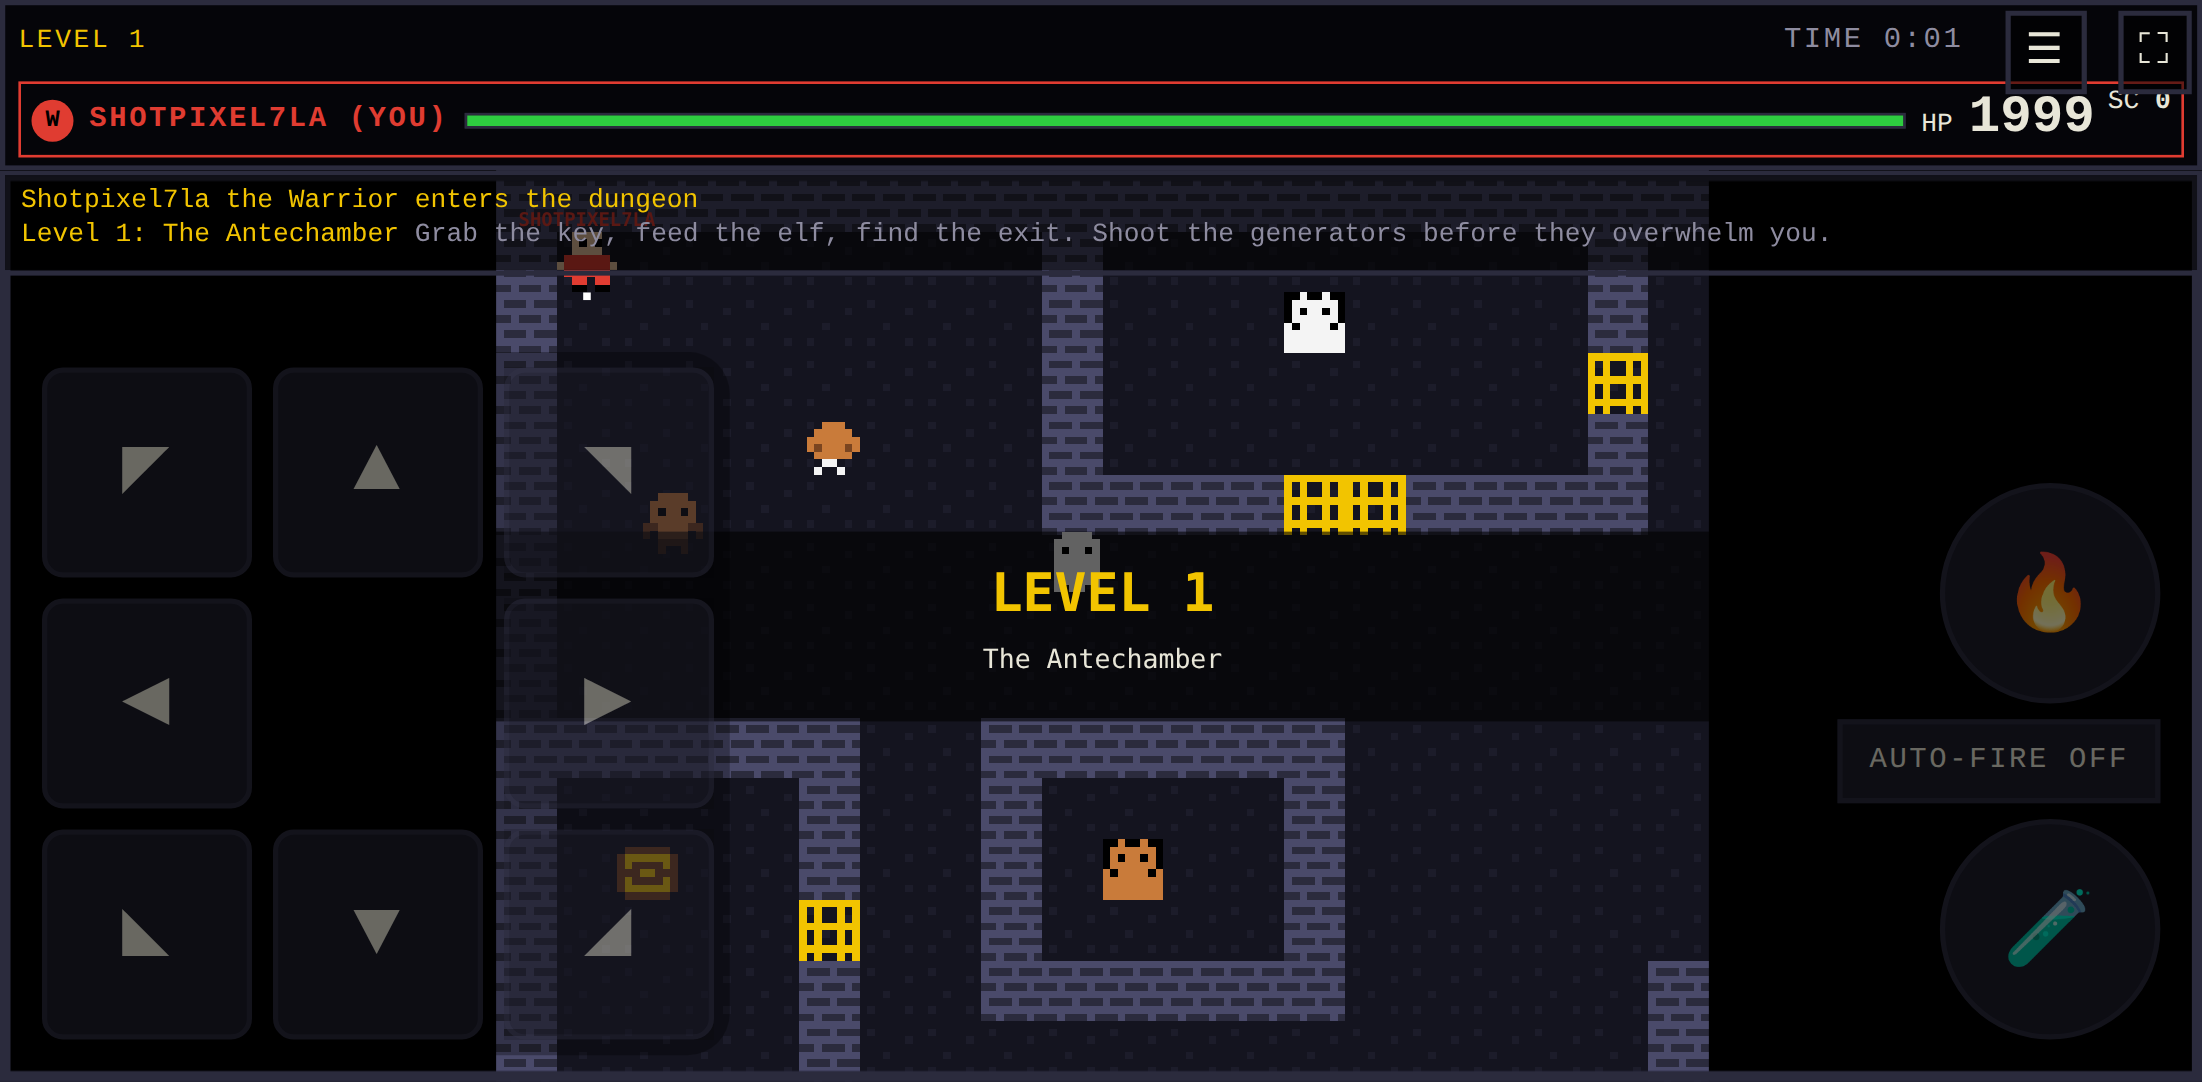
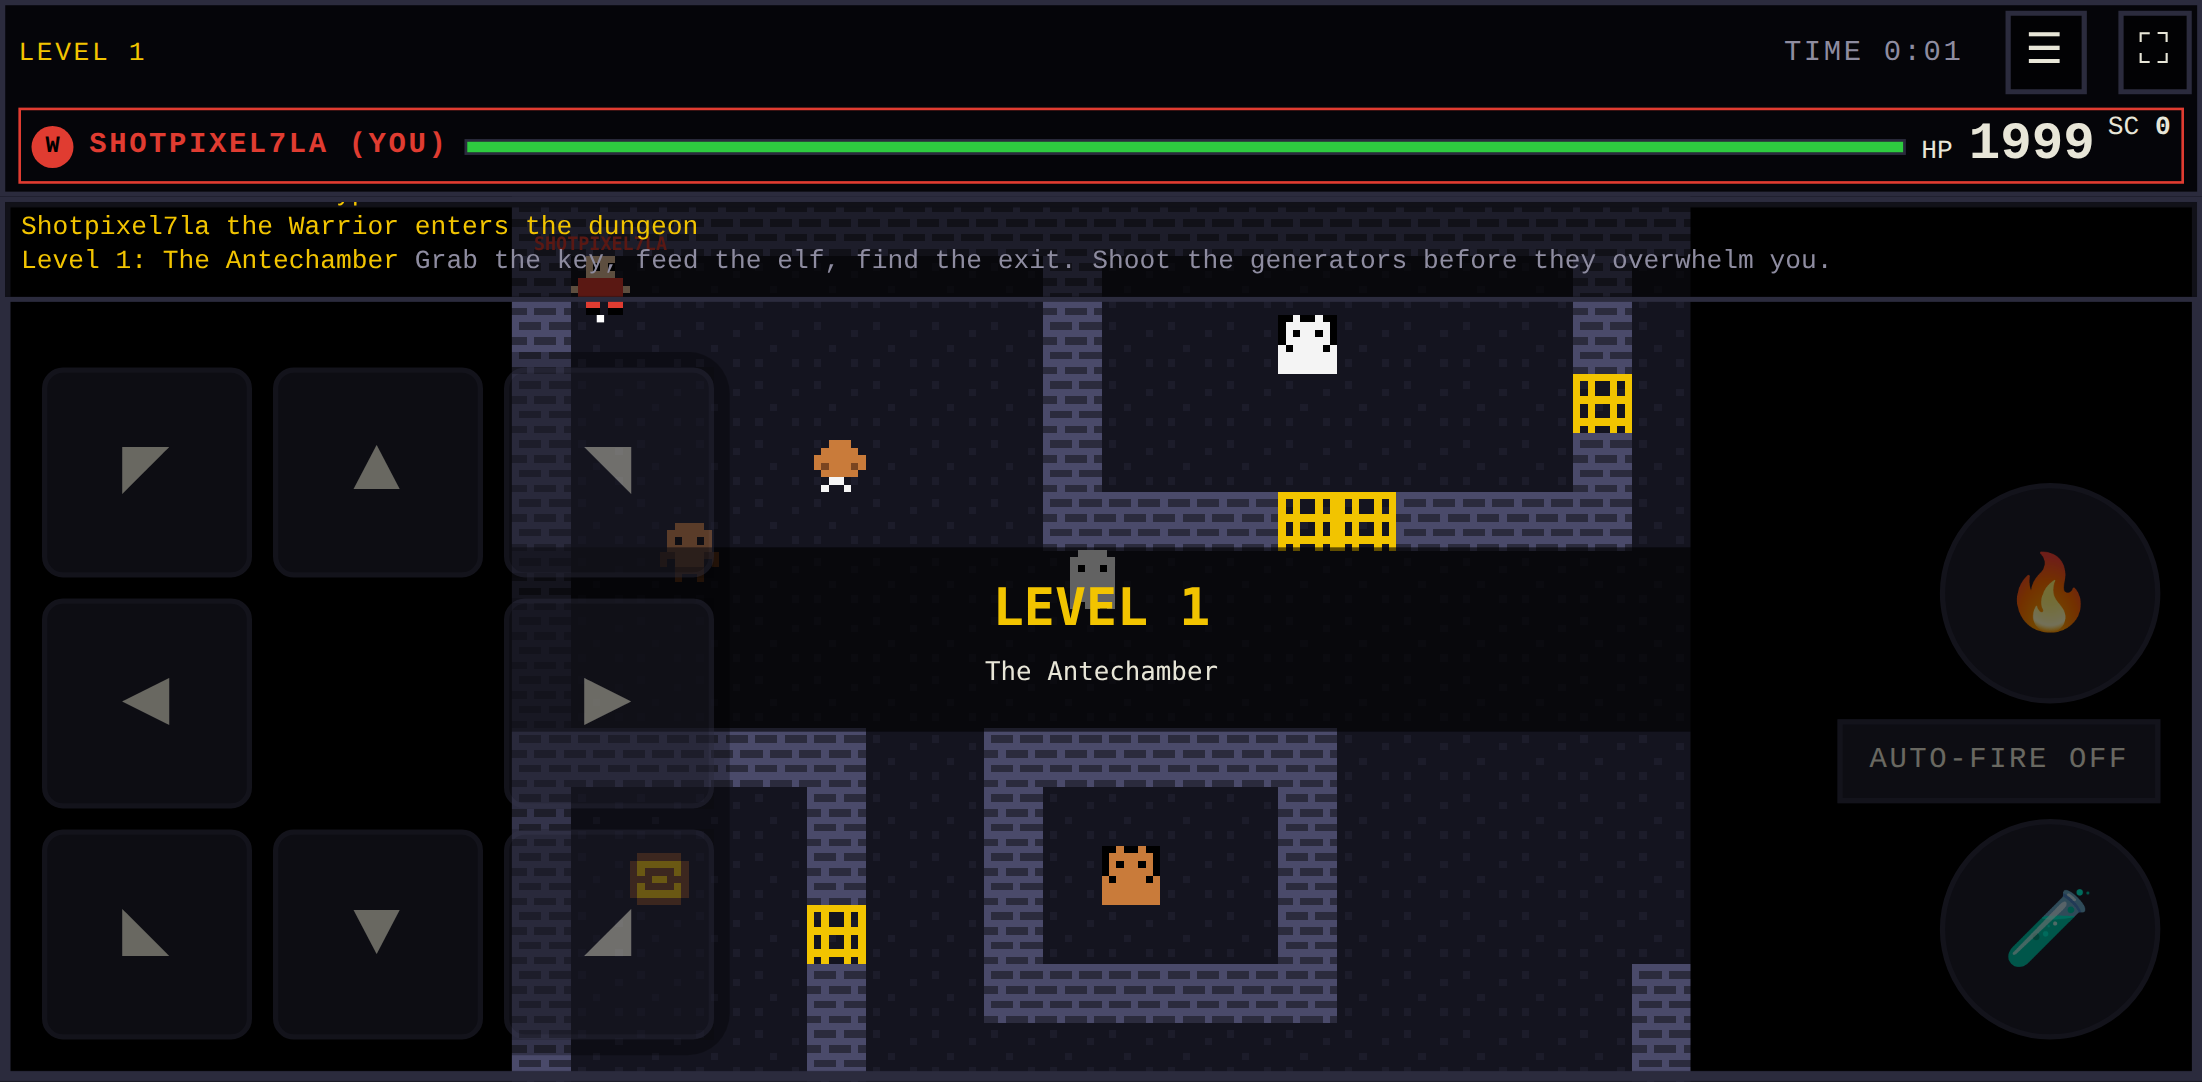
Fix landscape HUD header overlapping the first player card's score (#42)
#fs-toggle/#hud-menu are position:fixed, pinned to the viewport's top-right
regardless of where .hud-head sits in the HUD's flex column — in the short-
landscape "overlay" layout, .hud-head's min-height (22px) was shorter than
the buttons' own footprint (top:4px + ~32px tall), so they spilled past it
into the first player card below, covering its score ("SC 0"). Bumped
.hud-head's landscape min-height to 32px (tall enough to contain the
buttons plus the HUD's own inter-row gap) so cards now start below them
instead — a 10px increase to the HUD's total height in this mode, not
the whole-row padding-right alternative (which would have eaten into
every card's already-compact width for the same fix).

test/e2e-mobile.mjs's geometry scenario now also asserts #fs-toggle/
#hud-menu never overlap any individual player card box, not just #hud as
a whole — the regression check for this.

docs/mobile/*.png re-captured (landscape shows the fix; portrait/tablet
were already unaffected, since their header row already sized itself
correctly). SW_VERSION bumped (client-only change) and
test/fixtures/sw-shell-hash.json regenerated.

Claude-Session: https://claude.ai/code/session_01842t1XuDTwjehok4CEyvca

diff --git a/client/style.css b/client/style.css
@@ -298,7 +298,15 @@ body.gc-playing { overscroll-behavior: none; }
    portrait card list. */
 @media (orientation: landscape) and (max-height: 500px) {
   body.gc-playing #hud { padding: 3px 5px !important; font-size: 10px !important; background: rgba(0,0,0,.5); }
-  body.gc-playing #hud .hud-head { min-height: 22px; padding-right: 84px; }
+  /* min-height: 32px (not the portrait/tablet header's 32px either, coincidentally the same value)
+     — #fs-toggle/#hud-menu are `position: fixed`, pinned to the viewport's top-right regardless of
+     where .hud-head itself sits in the flex column, so if the header row is shorter than the
+     buttons' own footprint (top:4px + ~32px tall) the buttons spill past it into the first player
+     card below — exactly what clipped that card's score in this mode before. Tall enough to
+     contain the buttons (plus #hud's own inter-row gap) keeps the cards starting *below* them
+     instead, the only other way to guarantee this (padding-right on every .pp row) would eat into
+     an already-compact landscape card's width for less benefit. */
+  body.gc-playing #hud .hud-head { min-height: 32px; padding-right: 84px; }
   body.gc-playing #hud .pp { padding: 2px 4px; }
 
   /* Overlay d-pad: 80px/gap-8 is a *ceiling* (3*80 + 2*8 = 256px square, small enough to leave the

diff --git a/client/sw.js b/client/sw.js
@@ -12,7 +12,7 @@ import { shouldHandle, versionedUrl, PRECACHE_URLS } from './sw-rules.js';
 // Bump this whenever the precached shell changes for a reason *other* than the asset fingerprint
 // below, so activate() drops the previous cache instead of serving stale assets forever. Plain
 // string constant — there's no build step to stamp one in.
-const SW_VERSION = 'v25';
+const SW_VERSION = 'v26';
 
 // Cache-busting (#38): server/index.js replaces this literal token with its running
 // ASSET_VERSION every time it serves /sw.js — see serveStatic()'s special-case for this one path.
